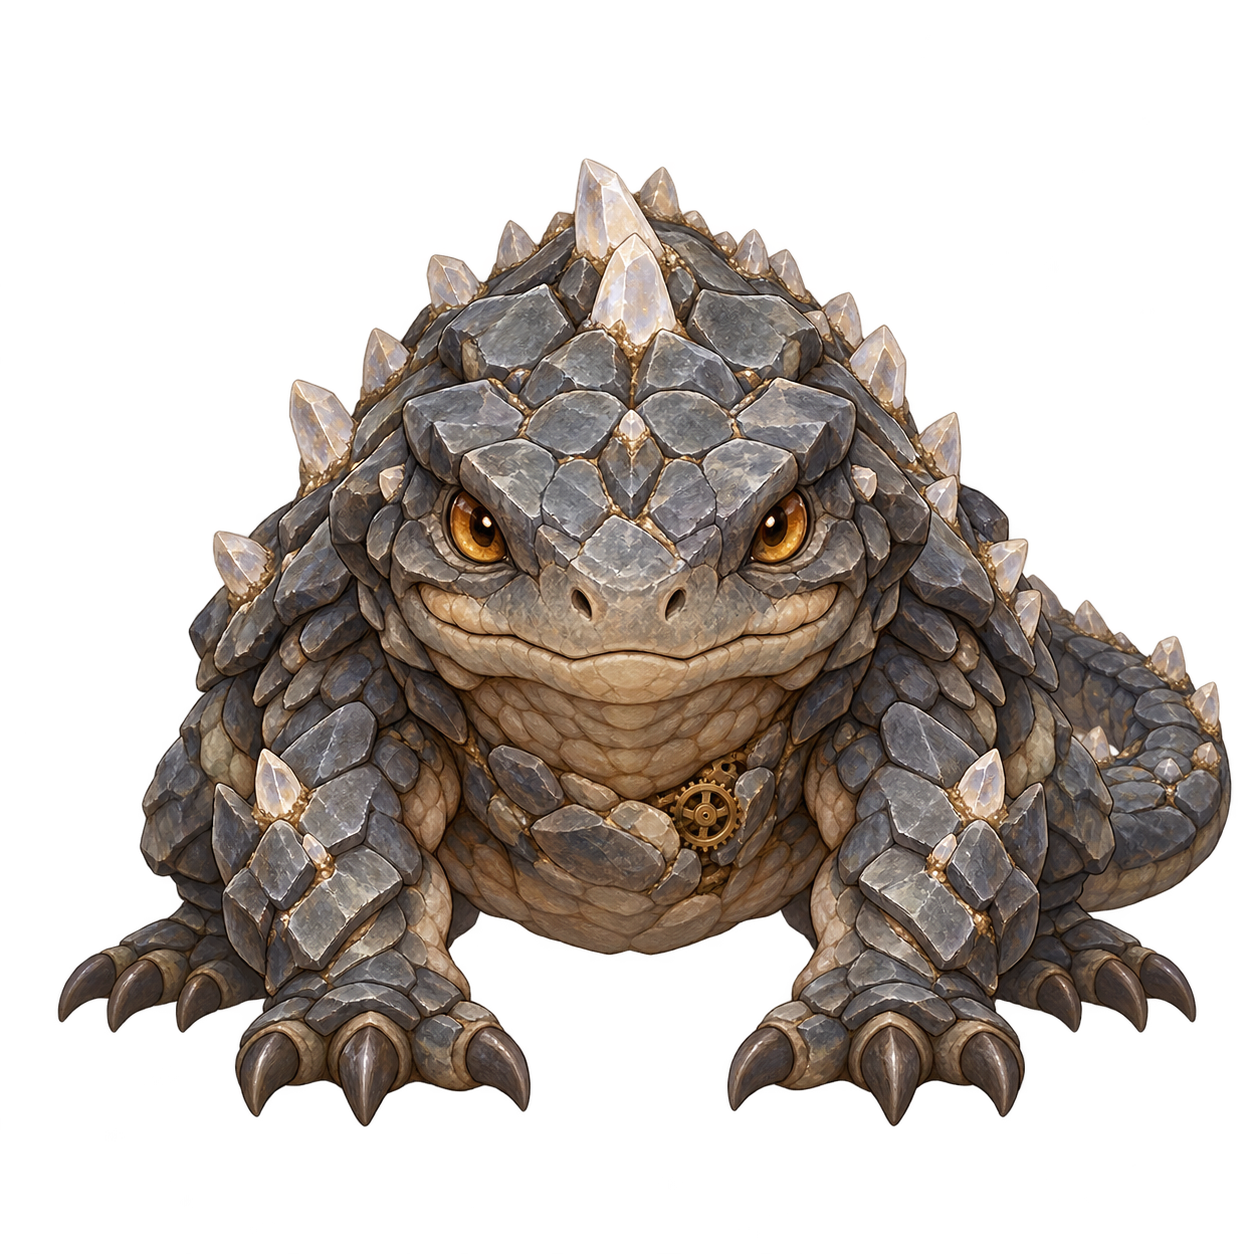
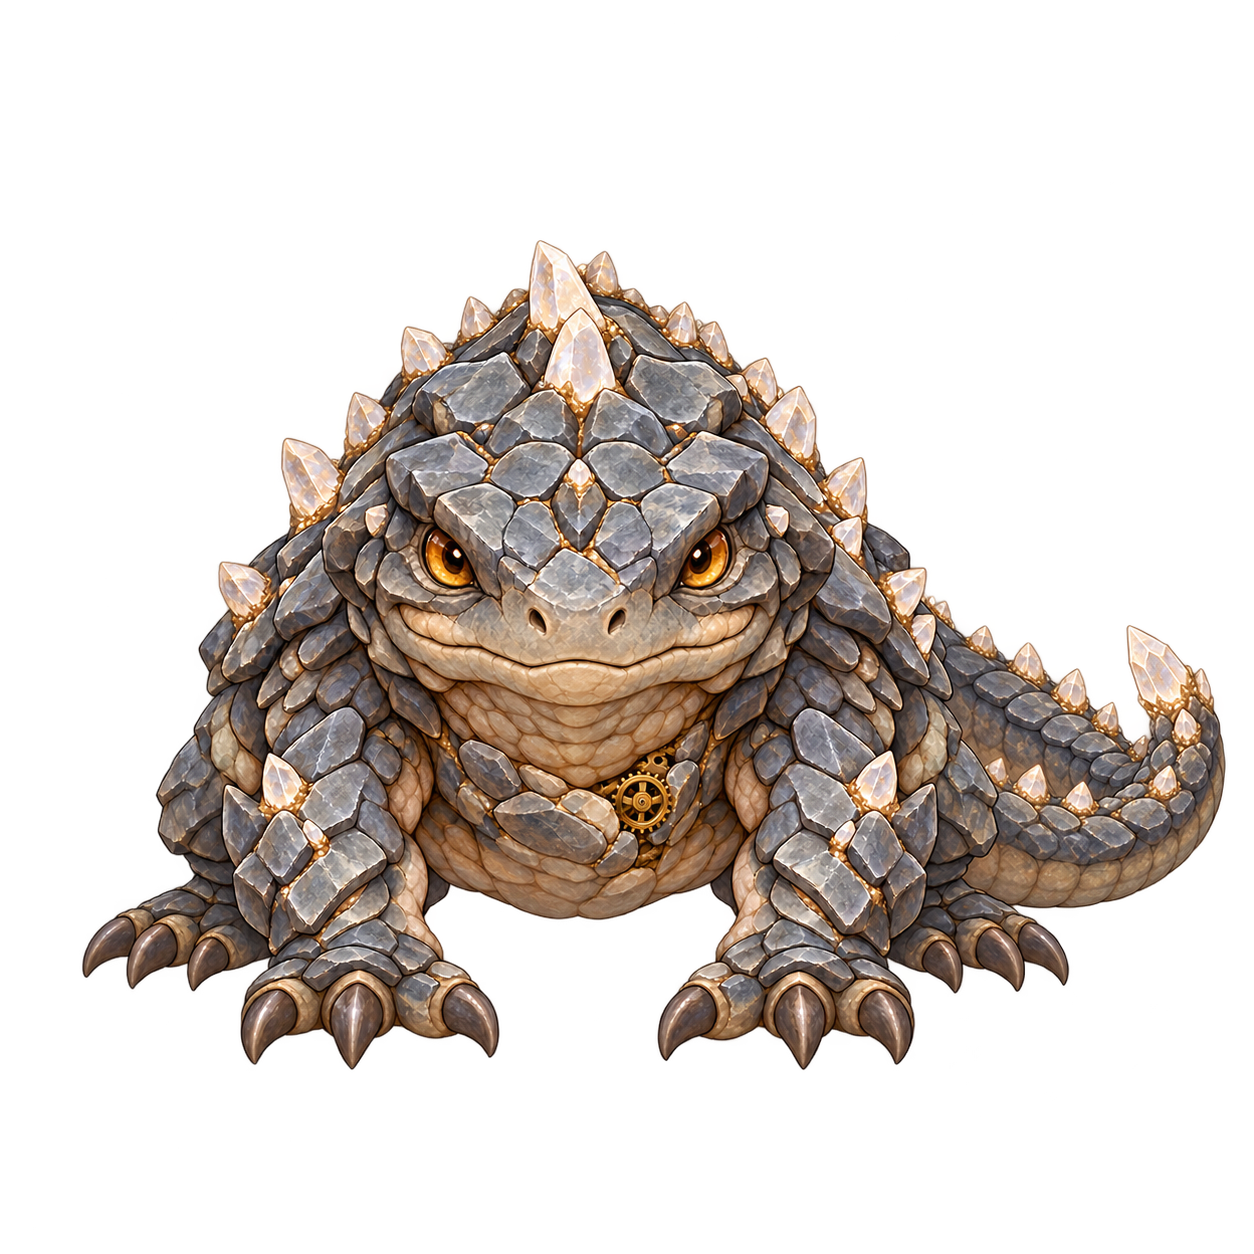
Add Craglet turnarounds and clarify complete front tail

diff --git a/art-source/production/turnarounds.html b/art-source/production/turnarounds.html
@@ -1,1 +1,1 @@
-<!doctype html><html lang="en"><meta charset="utf-8"><title>Monster turnarounds</title><style>body{background:#202831;color:#eee;font:16px system-ui;margin:24px}section{margin-bottom:32px}.views{display:grid;grid-template-columns:repeat(4,1fr);gap:12px}figure{margin:0}img{width:100%;background:#eee}small{color:#d9b970}</style><h1>Monster turnaround review</h1><p>Reference images only. File existence and alpha checks do not prove visual consistency or animation readiness.</p><section><h2>Mosskin <small>mob_0001</small></h2><p>A round four-legged seed with a mossy shell and two twig antennae; friendly face; earth-green palette.</p><div class="views"><figure><figcaption>front</figcaption><img src="../monsters/mob_0001/front.png" alt="Mosskin front"></figure><figure><figcaption>back</figcaption><img src="../monsters/mob_0001/back.png" alt="Mosskin back"></figure><figure><figcaption>left</figcaption><img src="../monsters/mob_0001/left.png" alt="Mosskin left"></figure><figure><figcaption>right</figcaption><img src="../monsters/mob_0001/right.png" alt="Mosskin right"></figure></div></section><section><h2>Sporeling <small>mob_0002</small></h2><p>A waddling mushroom with a speckled cream-and-rust cap, stubby root feet, puffs of glowing spores.</p><div class="views"><figure><figcaption>front</figcaption><img src="../monsters/mob_0002/front.png" alt="Sporeling front"></figure><figure><figcaption>back</figcaption><img src="../monsters/mob_0002/back.png" alt="Sporeling back"></figure><figure><figcaption>left</figcaption><img src="../monsters/mob_0002/left.png" alt="Sporeling left"></figure><figure><figcaption>right</figcaption><img src="../monsters/mob_0002/right.png" alt="Sporeling right"></figure></div></section><section><h2>Ambermite <small>mob_0003</small></h2><p>A beetle-sized six-legged mite under a translucent amber shell with a glowing core; honey-orange.</p><div class="views"><figure><figcaption>front</figcaption><img src="../monsters/mob_0003/front.png" alt="Ambermite front"></figure><figure><figcaption>back</figcaption><img src="../monsters/mob_0003/back.png" alt="Ambermite back"></figure><figure><figcaption>left</figcaption><img src="../monsters/mob_0003/left.png" alt="Ambermite left"></figure><figure><figcaption>right</figcaption><img src="../monsters/mob_0003/right.png" alt="Ambermite right"></figure></div></section><section><h2>Lunari <small>mob_0004</small></h2><p>A sugar-glider-like beast with leaf-shaped ears and a banded tail, membrane glide flaps; moonlit silver-green.</p><div class="views"><figure><figcaption>front</figcaption><img src="../monsters/mob_0004/front.png" alt="Lunari front"></figure><figure><figcaption>back</figcaption><img src="../monsters/mob_0004/back.png" alt="Lunari back"></figure><figure><figcaption>left</figcaption><img src="../monsters/mob_0004/left.png" alt="Lunari left"></figure><figure><figcaption>right</figcaption><img src="../monsters/mob_0004/right.png" alt="Lunari right"></figure></div></section></html>
+<!doctype html><html lang="en"><meta charset="utf-8"><title>Monster turnarounds</title><style>body{background:#202831;color:#eee;font:16px system-ui;margin:24px}section{margin-bottom:32px}.views{display:grid;grid-template-columns:repeat(4,1fr);gap:12px}figure{margin:0}img{width:100%;background:#eee}small{color:#d9b970}</style><h1>Monster turnaround review</h1><p>Reference images only. File existence and alpha checks do not prove visual consistency or animation readiness.</p><section><h2>Mosskin <small>mob_0001</small></h2><p>A round four-legged seed with a mossy shell and two twig antennae; friendly face; earth-green palette.</p><div class="views"><figure><figcaption>front</figcaption><img src="../monsters/mob_0001/front.png" alt="Mosskin front"></figure><figure><figcaption>back</figcaption><img src="../monsters/mob_0001/back.png" alt="Mosskin back"></figure><figure><figcaption>left</figcaption><img src="../monsters/mob_0001/left.png" alt="Mosskin left"></figure><figure><figcaption>right</figcaption><img src="../monsters/mob_0001/right.png" alt="Mosskin right"></figure></div></section><section><h2>Sporeling <small>mob_0002</small></h2><p>A waddling mushroom with a speckled cream-and-rust cap, stubby root feet, puffs of glowing spores.</p><div class="views"><figure><figcaption>front</figcaption><img src="../monsters/mob_0002/front.png" alt="Sporeling front"></figure><figure><figcaption>back</figcaption><img src="../monsters/mob_0002/back.png" alt="Sporeling back"></figure><figure><figcaption>left</figcaption><img src="../monsters/mob_0002/left.png" alt="Sporeling left"></figure><figure><figcaption>right</figcaption><img src="../monsters/mob_0002/right.png" alt="Sporeling right"></figure></div></section><section><h2>Ambermite <small>mob_0003</small></h2><p>A beetle-sized six-legged mite under a translucent amber shell with a glowing core; honey-orange.</p><div class="views"><figure><figcaption>front</figcaption><img src="../monsters/mob_0003/front.png" alt="Ambermite front"></figure><figure><figcaption>back</figcaption><img src="../monsters/mob_0003/back.png" alt="Ambermite back"></figure><figure><figcaption>left</figcaption><img src="../monsters/mob_0003/left.png" alt="Ambermite left"></figure><figure><figcaption>right</figcaption><img src="../monsters/mob_0003/right.png" alt="Ambermite right"></figure></div></section><section><h2>Lunari <small>mob_0004</small></h2><p>A sugar-glider-like beast with leaf-shaped ears and a banded tail, membrane glide flaps; moonlit silver-green.</p><div class="views"><figure><figcaption>front</figcaption><img src="../monsters/mob_0004/front.png" alt="Lunari front"></figure><figure><figcaption>back</figcaption><img src="../monsters/mob_0004/back.png" alt="Lunari back"></figure><figure><figcaption>left</figcaption><img src="../monsters/mob_0004/left.png" alt="Lunari left"></figure><figure><figcaption>right</figcaption><img src="../monsters/mob_0004/right.png" alt="Lunari right"></figure></div></section><section><h2>Craglet <small>mob_0005</small></h2><p>A squat lizard covered in slate plates, quartz flecks along the spine, a gear glinting in its belly seam.</p><div class="views"><figure><figcaption>front</figcaption><img src="../monsters/mob_0005/front.png" alt="Craglet front"></figure><figure><figcaption>back</figcaption><img src="../monsters/mob_0005/back.png" alt="Craglet back"></figure><figure><figcaption>left</figcaption><img src="../monsters/mob_0005/left.png" alt="Craglet left"></figure><figure><figcaption>right</figcaption><img src="../monsters/mob_0005/right.png" alt="Craglet right"></figure></div></section></html>

diff --git a/art-source/production/BACKLOG.md b/art-source/production/BACKLOG.md
@@ -13,7 +13,7 @@ No species renames or proposed cross-species substitutions are treated as comple
 | mob_0002 | Sporeling | master-created | master-created | master-created | master-created | sporeling_2d |
 | mob_0003 | Ambermite | master-created | master-created | master-created | master-created | ambermite_2d |
 | mob_0004 | Lunari | master-created | master-created | master-created | master-created | lunari_2d |
-| mob_0005 | Craglet | master-created | missing | missing | missing | placeholder |
+| mob_0005 | Craglet | master-created | master-created | master-created | master-created | placeholder |
 | mob_0006 | Thornback | master-created | missing | missing | missing | placeholder |
 | mob_0007 | Dustwing | master-created | missing | missing | missing | placeholder |
 | mob_0008 | Brookfin | master-created | missing | missing | missing | placeholder |
